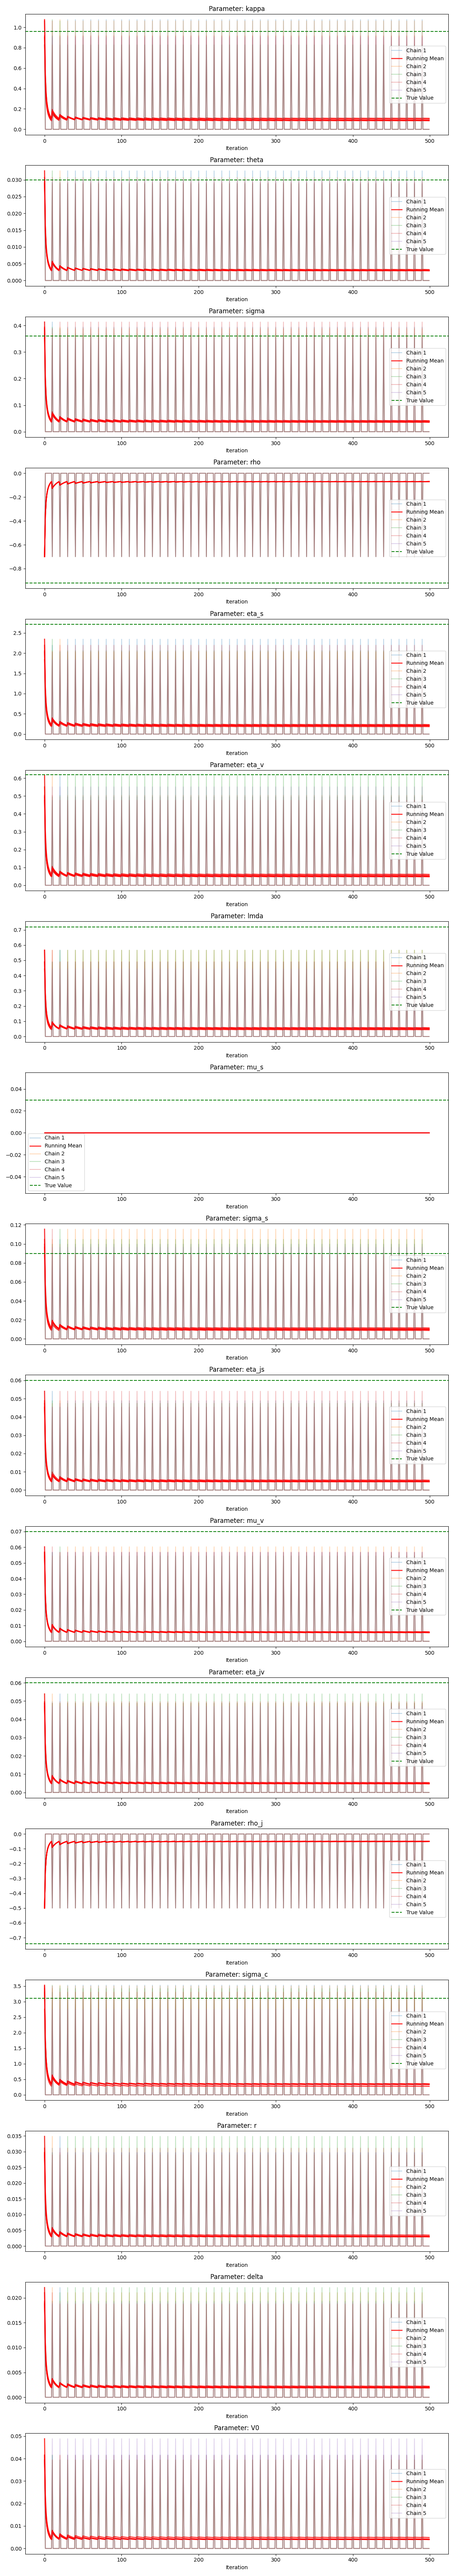
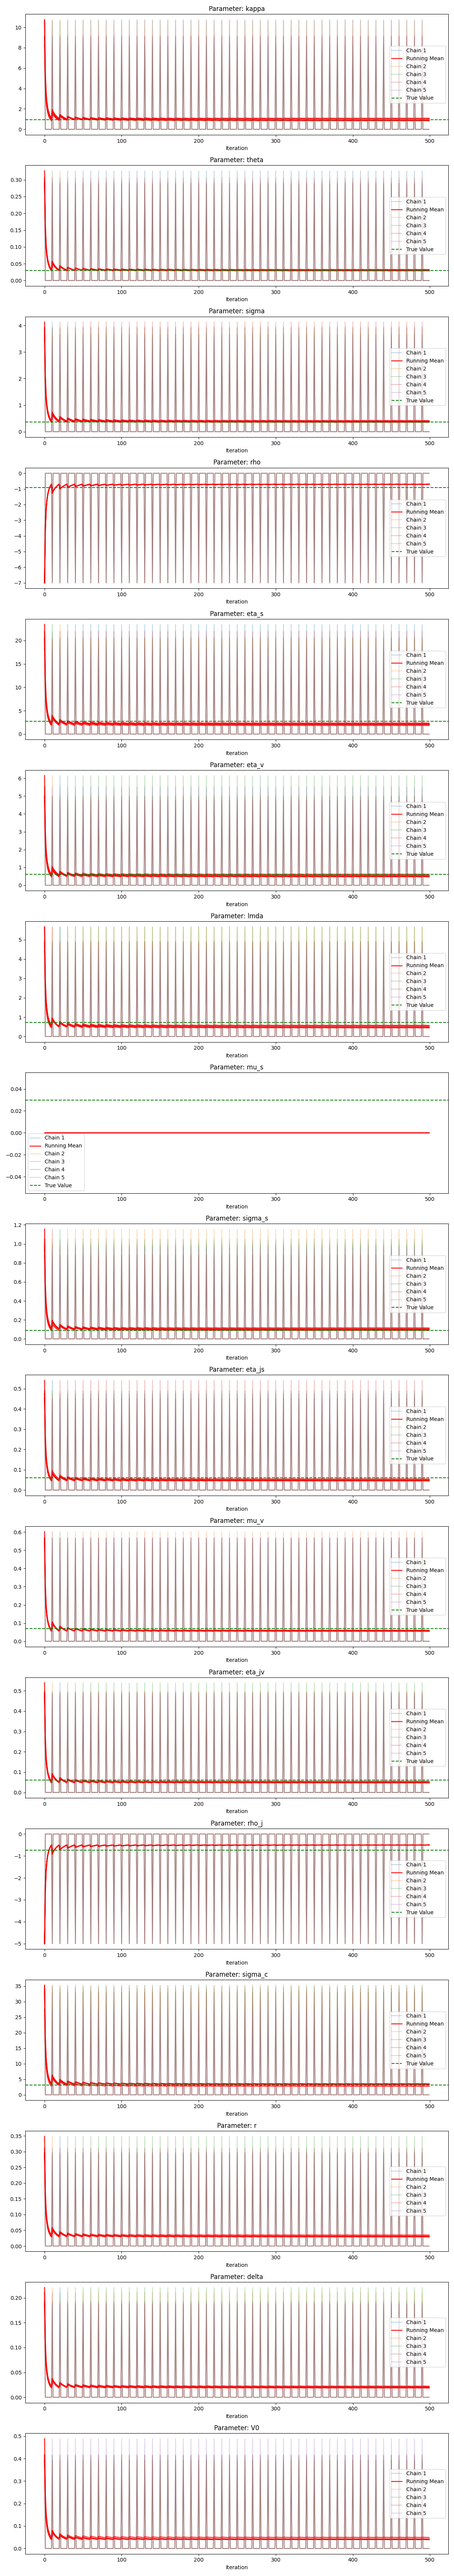
Scaling problem solved manually

diff --git a/main.py b/main.py
@@ -19,6 +19,7 @@ def create_output_directories():
 
 def display_parameter_table(true_params, estimated_params, std_errors=None):
     """Display parameter estimation results with enhanced formatting"""
+
     headers = ["Parameter", "True Value", "Estimate", "Std Error", "Error %", "95% CI"]
     rows = []
     for param, true_val in true_params.items():
@@ -26,7 +27,7 @@ def display_parameter_table(true_params, estimated_params, std_errors=None):
             est_val = estimated_params[param]
             std_err = std_errors.get(param, "N/A") if std_errors else "N/A"
             error_pct = abs(est_val - true_val) / true_val * 100 if true_val != 0 else 0
-            
+
             # Calculate 95% confidence interval
             if std_err != "N/A":
                 ci_lower = est_val - 1.96 * std_err
@@ -34,7 +35,7 @@ def display_parameter_table(true_params, estimated_params, std_errors=None):
                 ci = f"({ci_lower:.4f}, {ci_upper:.4f})"
             else:
                 ci = "N/A"
-                
+
             rows.append([
                 param, 
                 f"{true_val:.4f}", 
@@ -43,9 +44,10 @@ def display_parameter_table(true_params, estimated_params, std_errors=None):
                 f"{error_pct:.1f}%",
                 ci
             ])
-    
+
     print("\nParameter Estimation Results:")
     print(tabulate(rows, headers=headers, tablefmt="grid", floatfmt=".4f"))
+
 
 def display_diagnostics(diagnostics):
     """Display enhanced model diagnostics"""

diff --git a/PMMH.py b/PMMH.py
@@ -105,7 +105,7 @@ class OptimizedPMMH:
                         
                         # Store parameters
                         for j, param_name in enumerate(param_names):
-                            chains[chain, iter, j] = new_params[param_name]
+                            chains[chain, iter, j] = new_params[param_name] * 10  # Apply scaling factor here
                         
                         accepted[chain] += was_accepted
                         
@@ -175,7 +175,7 @@ class OptimizedPMMH:
                 
                 # Store current state
                 for j, param_name in enumerate(param_names):
-                    chains[0, iter, j] = current_params[param_name]
+                    chains[0, iter, j] = current_params[param_name] * 10  # Apply scaling factor here
                 
                 if progress_callback:
                     progress_callback(1)
